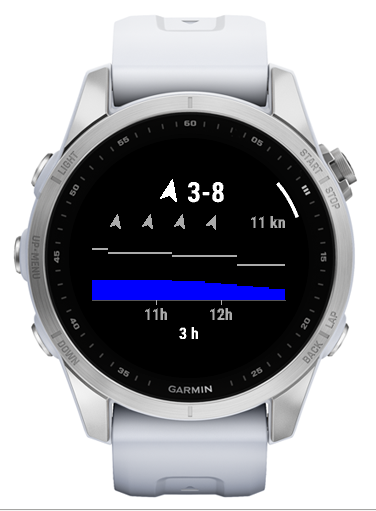
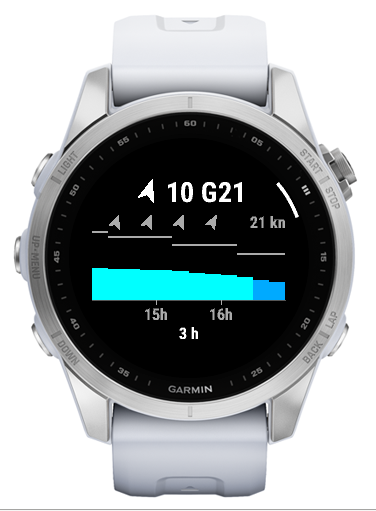
Show the gusts as 12 G18, add m/s, mph and Beaufort, and set both on the watch
A user read the mean and gust speed "36-48 km/h" as a forecast range. The
gust notation of sailing and aviation reports reads unambiguously, and the
dash and brackets remain as choices in the new wind format setting. The
watch menu now also steps through the unit and the wind format.
Release notes get their own folder, one file per release.

diff --git a/README.md b/README.md
@@ -8,13 +8,14 @@ WindWatch is a Garmin glance app that shows the wind at your favourite spot or w
 
 ## Features
 
-- **Glance:** the current wind as `<mean>-<gust> kn` with an arrow pointing where the wind blows, and a Beaufort color bar with the wind on it.
+- **Glance:** the current wind as `<mean> G<gust> kn`, like `12 G18 kn` for a mean wind of 12 knots with gusts of 18, with an arrow pointing where the wind blows, and a Beaufort color bar with the wind on it.
 - **View:** the current wind and a forecast chart.
 - **Favourite or GPS position:** the menu switches between the wind at your favourite spot and the wind where you are.
 - **Three forecast pages**, switched with DOWN and UP or by swiping: the next 3 hours in quarter hours, the next 24 and the next 72 hours in hours. Each page starts at the current sample, so a forecast stored without a connection never shows past hours. The title of the page shows right of the chart.
 - **Forecast chart:** bars colored by wind speed, light gray marks for the gusts and arrows above the bars for the wind direction.
 - **Offline:** without a connection the last known wind and forecast stay on screen, marked behind the wind when they are not the current ones: a pin when they are for another position, like before GPS moved on, and a clock when they missed a refresh, as the phone was offline or the request failed.
-- **Knots or km/h:** knots by default, km/h can be chosen in the app settings in Garmin Connect or Garmin Express.
+- **Knots, km/h, m/s, mph or Beaufort:** knots by default, the others can be chosen in the menu on the watch or in the app settings in Garmin Connect or Garmin Express.
+- **Wind format:** the app settings also offer `12 (18)` and `12-18` in place of `12 G18`.
 - **No API key** needed.
 
 ### Colors
@@ -36,6 +37,7 @@ Monochrome watches (Instinct) draw everything in white.
 2. Press START for the menu (on the first start it opens by itself; press BACK to keep the default):
    - **Set favourite here** saves where you stand as your favourite spot.
    - **Show** switches between **Favourite** and **GPS position**. With GPS position, the view follows you with GPS while it is open. The glance gets no GPS of its own and shows the last position the view got.
+   - **Unit** and **Wind format** step to the next speed unit or wind format on each press, the same settings as in Garmin Connect.
    - **Reload** asks for new data right away.
    - **Credits** shows where the wind data comes from, Open-Meteo.com under CC BY 4.0.
 

diff --git a/release-notes/v0.0.6.md b/release-notes/v0.0.6.md
@@ -1,0 +1,15 @@
+# WindWatch 0.0.6
+
+## New
+
+- **Gusts are easier to read:** the wind now shows as `12 G18 kn`, a mean wind of 12 knots with gusts of 18, as in sailing and aviation weather reports. The old `12-18` looked like a range of possible speeds.
+- **Choose the wind format** in the app settings: `12 G18`, `12 (18)` or `12-18`.
+- **More units:** m/s, mph and Beaufort join knots and km/h in the app settings.
+- **Unit and wind format on the watch:** the menu behind START now also switches them, without the phone.
+- **Wind stays on screen without a connection:** the last known wind and forecast now stay on screen when the phone is offline or in airplane mode. A mark behind the wind says when they are not the current ones:
+  - a **pin** when they are for another position, like after you moved on in GPS mode
+  - a **clock** when they are older than 30 minutes, as a refresh failed
+
+## Fixed
+
+- In GPS mode the screen went blank without a connection as soon as you moved about a kilometer.
